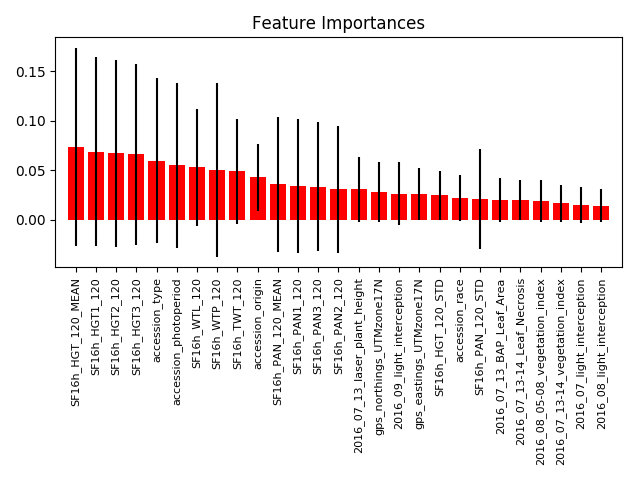
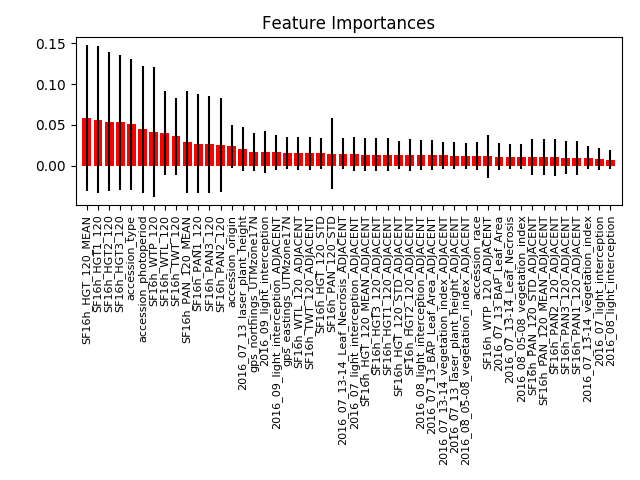
Use ADJACENT features.

Changed region(s): [[0.0312, 0.0625, 0.9688, 0.9688], [0.375, 0.0312, 0.6875, 0.0625]]

diff --git a/predict.py b/predict.py
@@ -111,30 +111,7 @@ def create_2016_output_generator(key):
 
 
 ADJACENT_COUNT = 4 # TODO impove code quality.
-
-# TODO some of this is copy-pasta from spatial.py. Remove code redundancy?
-# TODO should this really be in merge_data.py??
-def nearby_augmented_2016_rf_predictor(kfold_data_view):
-  gps_kfold_data_view = kfold_data_view.create_filtered_data_view(
-      tuple(filter_2016_labels('GPS_')))
-  total_weights = kfold_data_view.create_filtered_data_view(
-      Features.HARVEST_SF16h_TWT_120.value).get_all_X()
-
-  augmented_data = []
-  spatial_distances = squareform(pdist(gps_kfold_data_view.get_all_X()))
-  for spatial_row in spatial_distances:
-    sorted_row = sorted(zip(spatial_row, range(len(spatial_row))))
-    if sorted_row[0][0] != 0.0:
-      raise Exception('The plot itself is NOT the nearest plot??')
-
-    adjacent_total_weights = []
-    for i in range(1, ADJACENT_COUNT + 1):
-      adjacent_total_weights.append(total_weights[sorted_row[i][1]])
-    augmented_data.append(np.mean(adjacent_total_weights))
-
-  kfold_data_view.augment_X('adjacent_twt', augmented_data)
-  return rf_predictor(kfold_data_view)
-
+ADJACENT_LABEL_SUFFIX = '_ADJACENT'
 
 def new2016Dataset(include_harvest=True):
   samples = csv_utils.read_csv_as_dicts('2016.merged.csv')
@@ -142,16 +119,36 @@ def new2016Dataset(include_harvest=True):
       'HARVEST_', 'COMPOSITION_', 'ROBOT_', 'SYNTHETIC_', 'GPS_')) +
       [Features.ROW.value, Features.COLUMN.value])
 
+  adjacent_augmented_labels = filter_2016_labels(('ROBOT_', 'SYNTHETIC_'))
   input_features_starts_with = [
       'ROBOT_',
       'GPS_',
       'ACCESSION_',
   ]
   if include_harvest:
+    adjacent_augmented_labels.extend(filter_2016_labels('HARVEST_'))
     input_features_starts_with.append('HARVEST_')
     input_features_starts_with.append('SYNTHETIC_HARVEST_')
 
-  input_labels = filter_2016_labels(tuple(input_features_starts_with))
+  EASTINGS_LABEL = Features.GPS_EASTINGS.value
+  NORTHINGS_LABEL = Features.GPS_NORTHINGS.value
+  # TODO some of this is copy-pasta from spatial.py. Remove code redundancy?
+  spatial_distances = squareform(pdist(
+      [(x[EASTINGS_LABEL], x[NORTHINGS_LABEL]) for x in samples]))
+  for spatial_row, sample in zip(spatial_distances, samples):
+    sorted_row = sorted(zip(spatial_row, range(len(spatial_row))))
+    if sorted_row[0][0] != 0.0:
+      raise Exception('The plot itself is NOT the nearest plot??')
+
+    for input_label in adjacent_augmented_labels:
+      adjacent_values = []
+      for i in range(1, ADJACENT_COUNT + 1):
+        adjacent_values.append(samples[sorted_row[i][1]][input_label])
+      sample[input_label + ADJACENT_LABEL_SUFFIX] = np.mean(adjacent_values)
+
+
+  input_labels = filter_2016_labels(tuple(input_features_starts_with)) + (
+                 [x + ADJACENT_LABEL_SUFFIX for x in adjacent_augmented_labels])
   output_labels = filter_2016_labels('COMPOSITION_')
 
   output_generators = collections.OrderedDict(sorted(
@@ -235,8 +232,7 @@ def main():
   open(CSV_OUTPUT_PATH, 'w').close()  # Clear file.
 
   predictors = collections.OrderedDict()
-  # TODO somehow limit this to just 2016? by having new*Dataset return tuple?
-  predictors[RF_REGRESSOR_NAME] = nearby_augmented_2016_rf_predictor
+  predictors[RF_REGRESSOR_NAME] = rf_predictor
 
   if not args.rf_only:
     for name, regressor_generator in scikit_regressors.REGRESSORS.items():
